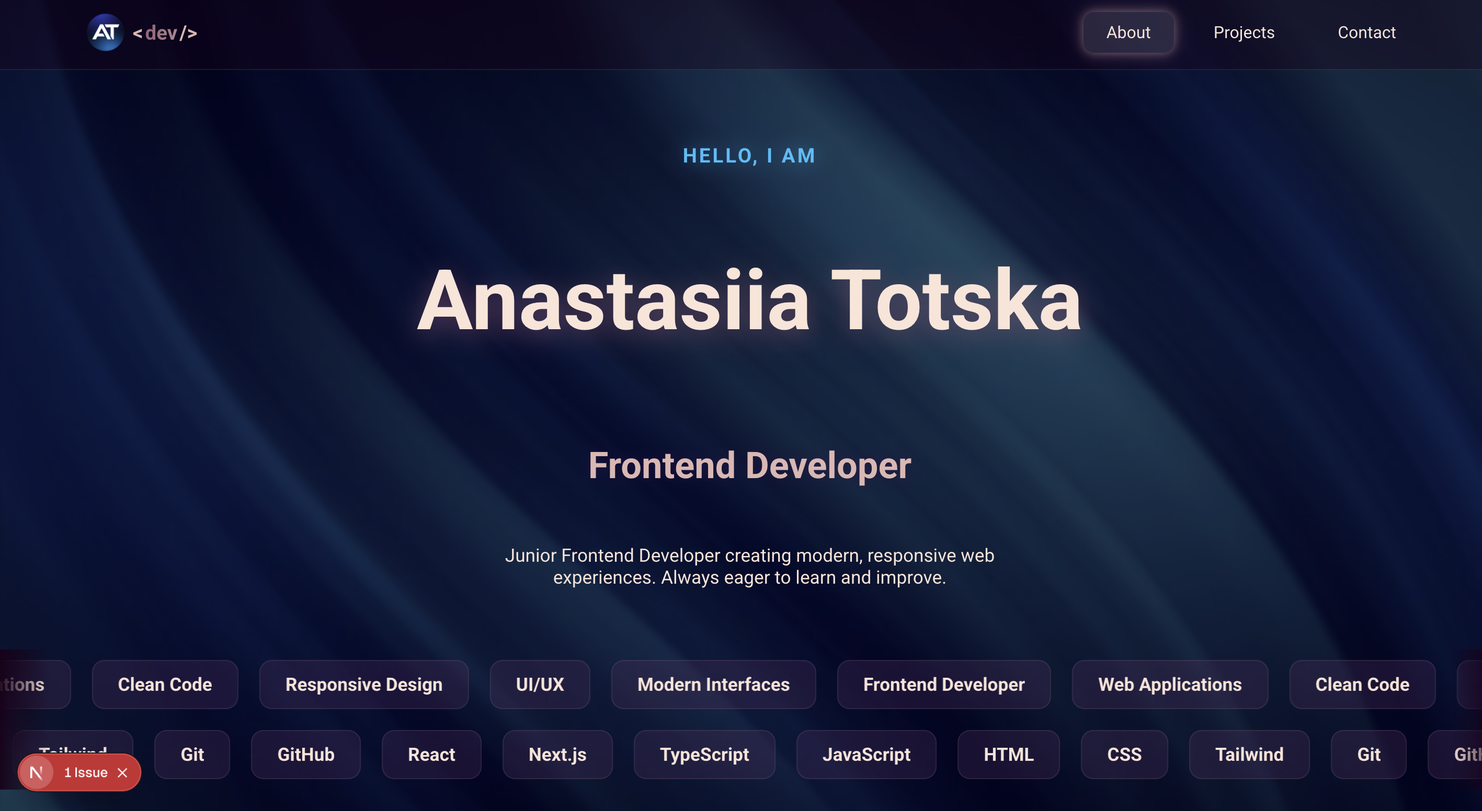
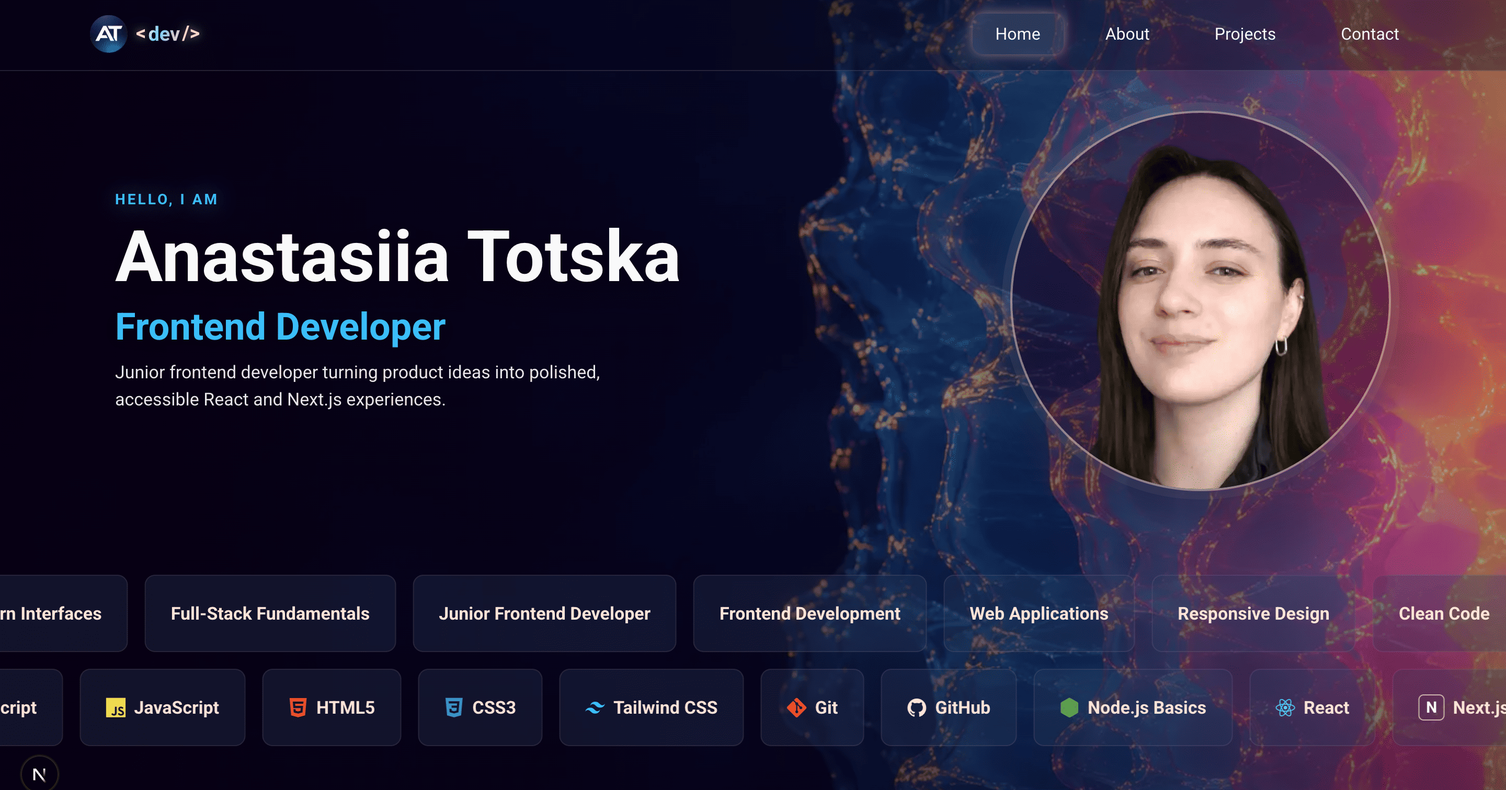
new screenshots

diff --git a/README.md b/README.md
@@ -1,19 +1,35 @@
 # Anastasiia Totska Portfolio
 
-Live demo: https://anastasiia-totska-github-io.vercel.app/
-
 Personal portfolio for a junior frontend developer. The site presents my profile, practical skills, selected projects, downloadable CVs, and contact links in one responsive page.
+
+## Live Demo
+
+[View the deployed app](https://anastasiia-totska-github-io.vercel.app/)
+
+## Preview
+
+### Hero Section
+
+![Portfolio home](screenshots/home.png)
+
+### About Section
+
+![Portfolio about](screenshots/about.png)
+
+### Projects Section
+
+![Portfolio projects](screenshots/projects.png)
 
 ## Stack
 
-| Technology | Purpose |
-| --- | --- |
-| Next.js | App Router, metadata, image optimization |
-| React | Component-based UI |
-| TypeScript | Typed project data and component props |
-| CSS Modules | Scoped, mobile-first styles |
-| Framer Motion | Small section and modal animations |
-| Vercel | Deployment |
+| Technology    | Purpose                                  |
+| ------------- | ---------------------------------------- |
+| Next.js       | App Router, metadata, image optimization |
+| React         | Component-based UI                       |
+| TypeScript    | Typed project data and component props   |
+| CSS Modules   | Scoped, mobile-first styles              |
+| Framer Motion | Small section and modal animations       |
+| Vercel        | Deployment                               |
 
 ## Main Features
 
